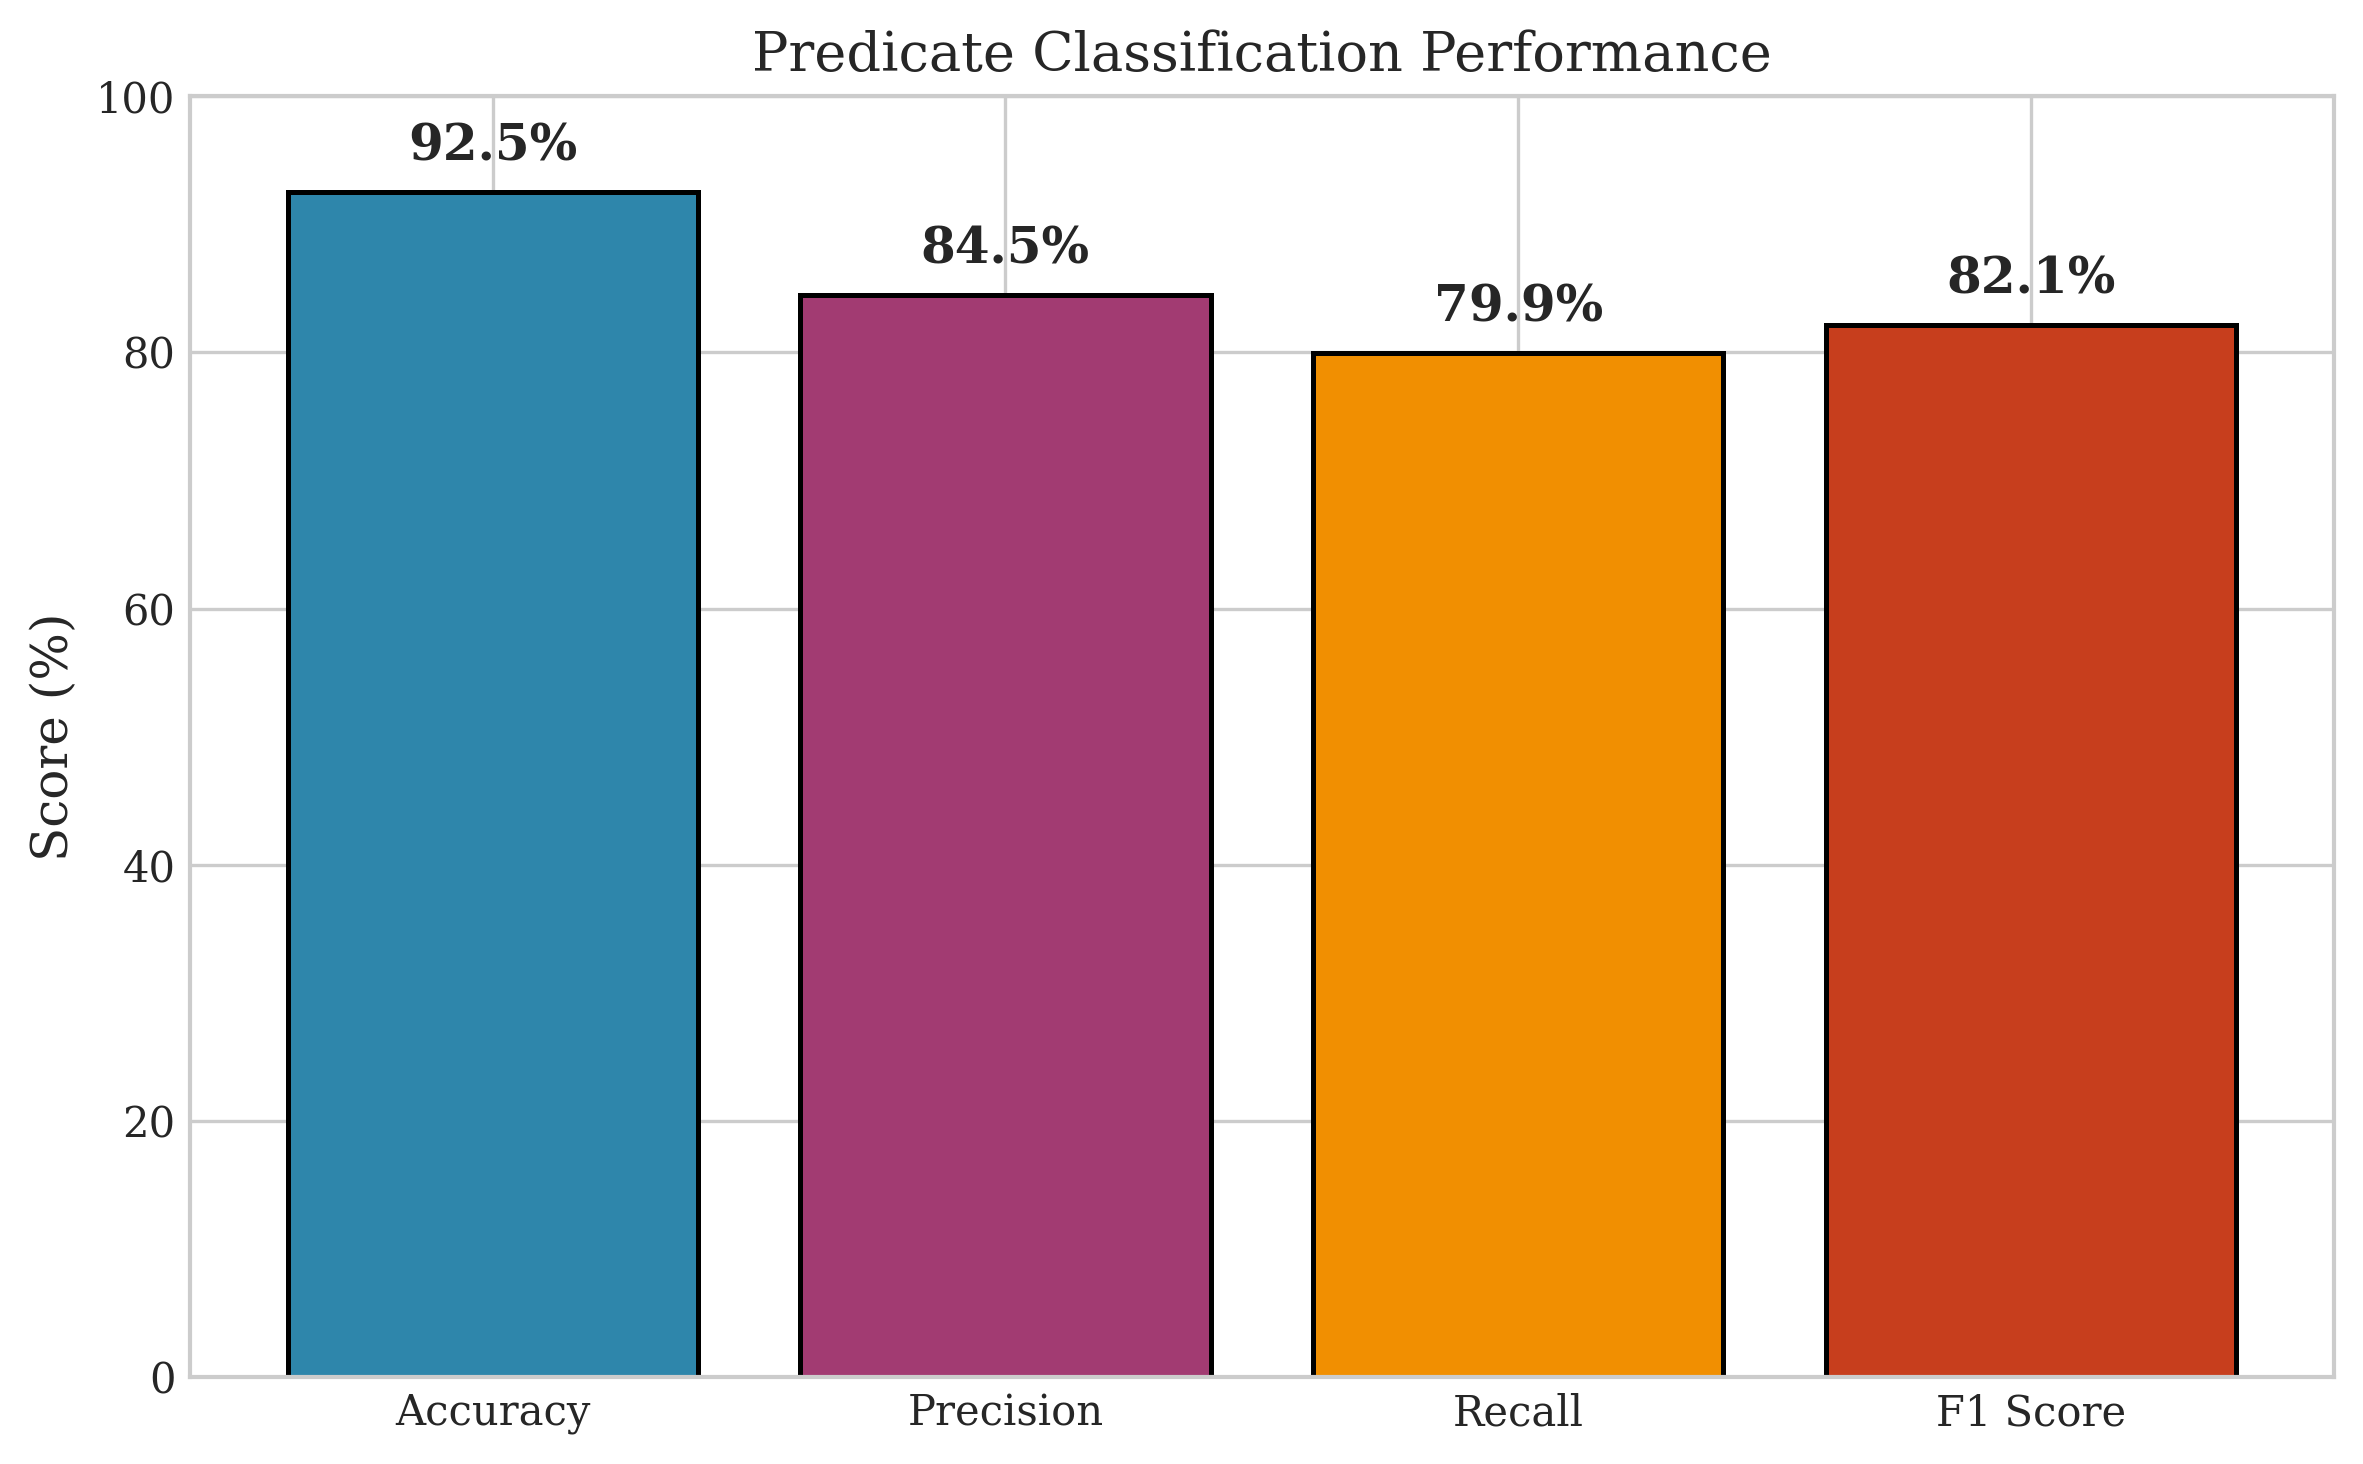
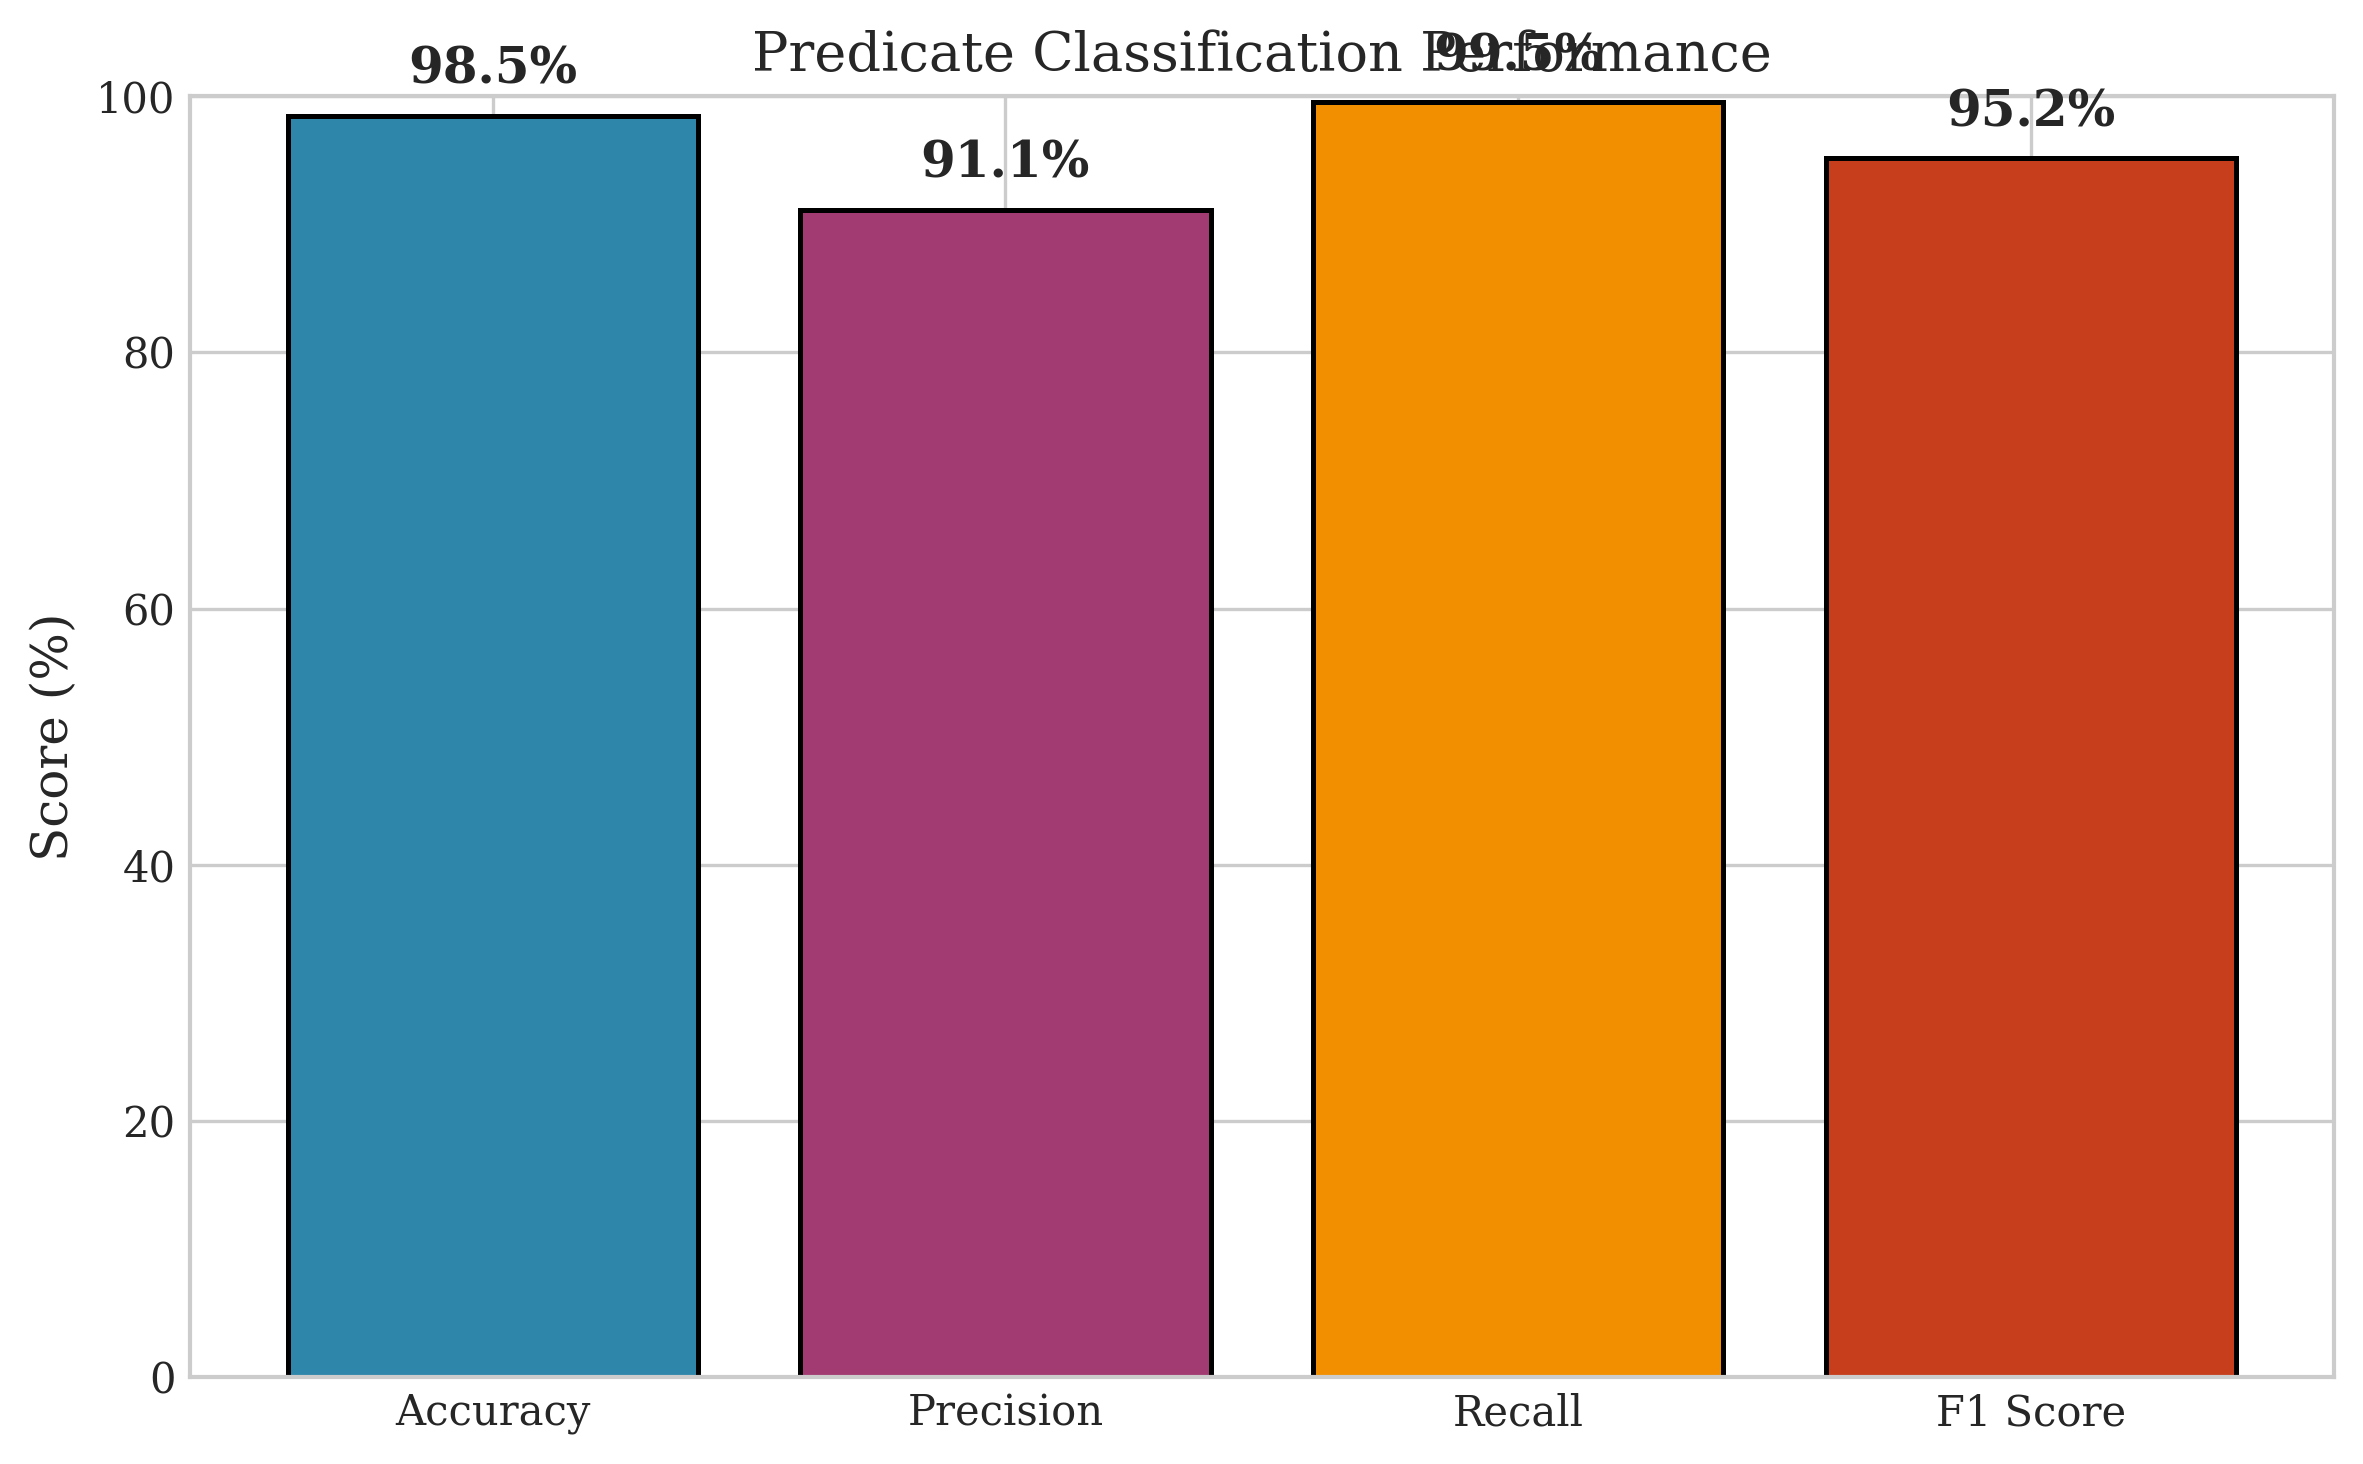
Update CONTEXT_DUMP, MasterPlan, and benchmark files with remote-trained model results
- Revised CONTEXT_DUMP.txt to include updated inference benchmarks, accuracy metrics, and device specifications for the remote-trained model.
- Updated MasterPlan.md to reflect the successful re-run of benchmarks with the remote model, highlighting improved performance metrics.
- Added new JSON file for detailed benchmark results of the remote-trained model, including timing and accuracy statistics.
- Adjusted figure generation script to utilize the new benchmark results file for enhanced documentation.

diff --git a/scripts/generate_thesis_figures.py b/scripts/generate_thesis_figures.py
@@ -736,8 +736,8 @@ def main():
     parser.add_argument(
         "--benchmark",
         type=Path,
-        default=Path("experiments/benchmark_with_trained_model.json"),
-        help="Path to benchmark results JSON",
+        default=Path("experiments/benchmark_remote_model.json"),
+        help="Path to benchmark results JSON (from remote-trained model)",
     )
     args = parser.parse_args()
     

diff --git a/MasterPlan.md b/MasterPlan.md
@@ -217,9 +217,10 @@
 
 **Key Thesis Claims**:
 - MCP solves N×M integration problem
-- GNN provides structured relational understanding (99.4% accuracy)
+- GNN provides structured relational understanding (98.99% pass@1, 95.15% F1)
 - ⚠ Vision integration does NOT improve accuracy (RelationalGNN wins)
 - Swappable AI brain validated (Llama3.2 + Qwen2.5 → MCP → GNN E2E)
+- Real-time viable: 17.8ms inference latency (mean)
 
 ---
 
@@ -631,7 +632,8 @@ These are documented for future researchers, not part of current thesis:
 | ~~Fix MultiModalGNN accuracy~~ | ~~High~~ | ✅ DONE (96.51% on 55k) |
 | ~~Train MultiModalGNN on 55k~~ | ~~High~~ | ✅ DONE (31 min, fixed OOM) |
 | ~~Run fair comparison~~ | ~~High~~ | ✅ DONE — **RelationalGNN WINS** |
-| Generate final thesis figures | High | ✅ DONE (28 PNGs) |
+| Generate final thesis figures | High | ✅ DONE (28 PNGs, remote-trained model) |
+| Re-run benchmark with remote model | High | ✅ DONE (98.99% pass@1, 95.15% F1) |
 | **Revise thesis Results chapter** | **High** | ⬜ **CRITICAL** (outdated claims) |
 
 ### Post-Thesis (Phase 10)
